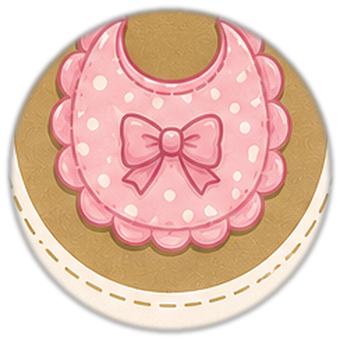
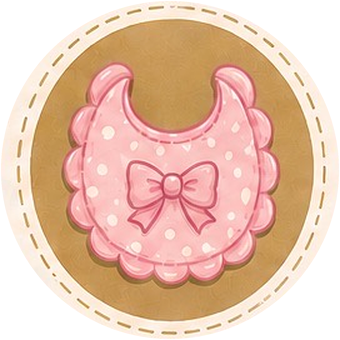
Actualizar recortes y animación de fondo

diff --git a/index.html b/index.html
@@ -49,15 +49,15 @@
     .shape {
       position: absolute;
       opacity: 0;
-      animation: floatUp linear infinite;
+      animation: floatDown linear infinite;
       font-style: normal;
     }
 
-    @keyframes floatUp {
-      0%   { transform: translateY(110vh) rotate(0deg);   opacity: 0; }
+    @keyframes floatDown {
+      0%   { transform: translateY(-15vh) rotate(0deg);   opacity: 0; }
       10%  { opacity: .55; }
       90%  { opacity: .55; }
-      100% { transform: translateY(-15vh) rotate(360deg); opacity: 0; }
+      100% { transform: translateY(110vh) rotate(360deg); opacity: 0; }
     }
 
     /* ══════════════════════════════════════
